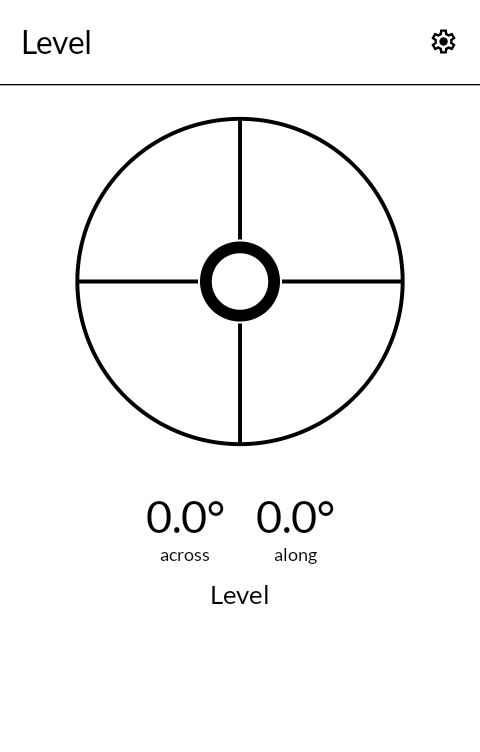
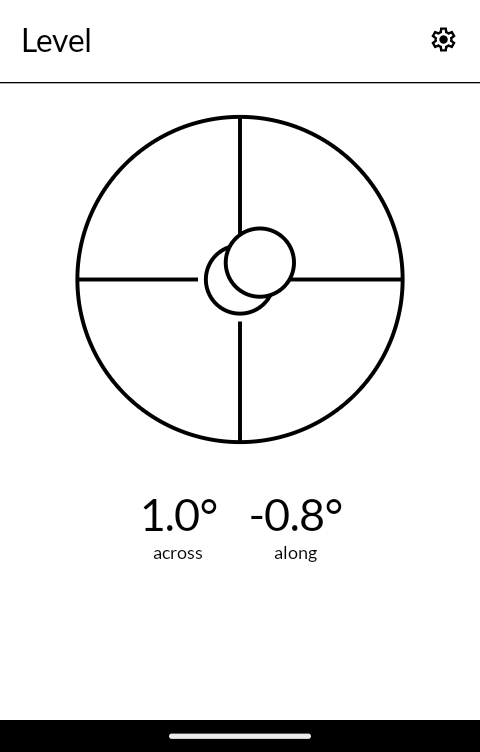
New screenshots

diff --git a/README.md b/README.md
@@ -12,7 +12,7 @@ sixteen greys, a slow redraw, and is read outdoors as often as indoors.
 
 | | | | |
 |---|---|---|---|
-| ![Flat](screenshots/01-flat.png) | ![On edge](screenshots/02-edge.png) | ![Settings](screenshots/03-settings.png) | ![About](screenshots/04-about.png) |
+| ![Flat](screenshots/01-flat.png) | ![In percent](screenshots/02-percent.png) | ![Settings](screenshots/03-settings.png) | ![About](screenshots/04-about.png) |
 
 ## How it works
 
